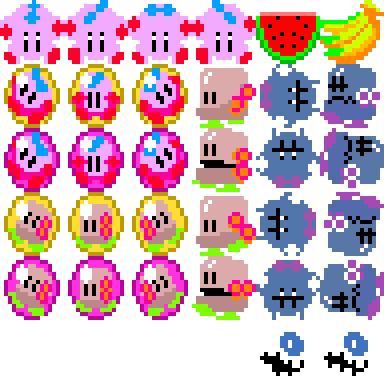
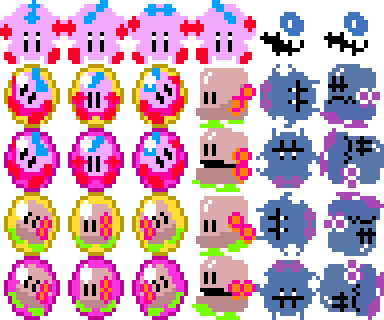
refactor fruit sprites

diff --git a/Demo/src/GameState.cpp b/Demo/src/GameState.cpp
@@ -313,6 +313,8 @@ void GameState::loadAssets()
 
     m_animationControllers[SpriteID::Goobly].animationMap[AnimationController::Idle] = spriteSheet.getAnimationIndex("idle", "goobly");
 
+    //dem fruits
+    spriteSheet.loadFromFile("assets/sprites/fruit.spt", m_textureResource);
     m_sprites[SpriteID::FruitSmall] = spriteSheet.getSprite("fruit");
 
     //power ups
@@ -950,7 +952,7 @@ void GameState::spawnActor(const ActorEvent& actorEvent)
         break;
     case ActorID::FruitSmall:
         entity.addComponent<xy::Sprite>() = m_sprites[SpriteID::FruitSmall];
-        entity.addComponent<xy::SpriteAnimation>().play(xy::Util::Random::value(0, 1));
+        entity.addComponent<xy::SpriteAnimation>().play(xy::Util::Random::value(0, m_sprites[SpriteID::FruitSmall].getAnimationCount() - 1));
         entity.getComponent<xy::Sprite>().setDepth(2);
         entity.getComponent<xy::Transform>().setOrigin(SmallFruitSize / 2.f, SmallFruitSize / 2.f);
         break;

diff --git a/xyginext/include/xyginext/ecs/components/Sprite.hpp b/xyginext/include/xyginext/ecs/components/Sprite.hpp
@@ -160,6 +160,13 @@ namespace xy
         */
         sf::Int32 getDepth() const { return m_zDepth; }
 
+        /*!
+        \brief Returns the number of animations for this sprite when loaded
+        from a sprite sheet definition file.
+        */
+        std::size_t getAnimationCount() const { return m_animationCount; }
+
+
     private:
 
         sf::FloatRect m_textureRect;
